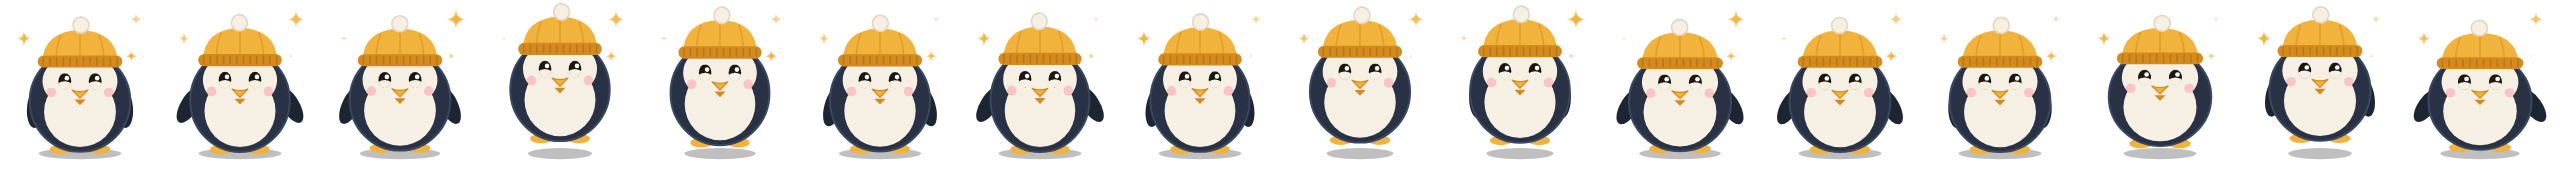
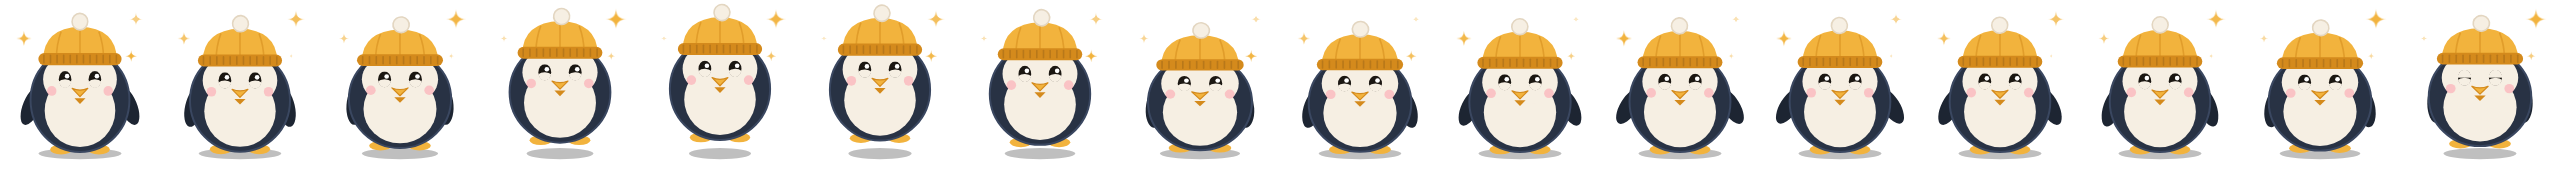
Kelvin: three moves per mood, switching every few seconds, on the desktop too
Idle, thinking, working and done each have three moves now: hops, a
waddle and flipper typing for working; a still ponder, a head sway and
little "hmm" bounces for thinking; a jump, a wiggle and a flipper cheer
for done; a breathe, a bob and a sway for idle. A Kelvin switches to a
different move every 6-9 seconds while a mood lasts, instead of keeping
one move until the mood changes.

Desktop Kelvin plays pre-rendered strips, so each move now has its own
strip (pet-<mood>-1.png, -2.png) recorded from kelvin.js. It picks a move
when the mood changes and switches every 7 seconds, at the end of a loop.
Moves cycle in 1.2 s so the 16-frame strips loop cleanly.

Claude-Session: https://claude.ai/code/session_013wJcUq1FY8kmipQYWNFhdJ

diff --git a/frontend2/js/kelvin.js b/frontend2/js/kelvin.js
@@ -150,7 +150,10 @@
     var q = function (s) { return Array.prototype.slice.call(svg.querySelectorAll(s)); };
     var inst = {
       host: host, svg: svg, state: opts.state || 'idle', poke: 0,
-      phase: Math.random() * 10, variant: 0,
+      phase: Math.random() * 10,
+      // Each mood has a few moves; a Kelvin switches move every few seconds.
+      // opts.variant pins one move (used to record Desktop Kelvin's strips).
+      variant: opts.variant || 0, pinned: opts.variant !== undefined, variantUntil: 0,
       blinkAt: performance.now() + 1500 + Math.random() * 2500,
       rig: svg.querySelector('[data-rig]'), shadow: svg.querySelector('[data-shadow]'), beak: svg.querySelector('[data-beak]'),
       eyes: q('[data-eye]').map(function (g) {
@@ -177,38 +180,58 @@
       setState: function (s) {
         if (!STATES[s] || s === inst.state) return;
         inst.state = s;
-        inst.variant = Math.floor(Math.random() * 3);   // a different move each time
+        if (!inst.pinned) { inst.variant = Math.floor(Math.random() * MOVES); inst.variantUntil = 0; }
       },
       destroy: function () { instances = instances.filter(function (i) { return i !== inst; }); host.innerHTML = ''; },
     };
   }
 
+  var MOVES = 3;                    // moves per mood (see step)
+  var W = 2 * Math.PI / 1.2;        // one cycle per 1.2 s, so Desktop Kelvin's 16-frame strips loop cleanly
+
   function step(inst, now, dt) {
     var st = inst.state, P = STATES[st], t = now / 1000 + inst.phase, sp = inst.sp, calm = isStill();
+    if (!inst.pinned && now > inst.variantUntil) {
+      // Time for a different move (never the same one twice in a row).
+      if (inst.variantUntil) inst.variant = (inst.variant + 1 + Math.floor(Math.random() * (MOVES - 1))) % MOVES;
+      inst.variantUntil = now + 6000 + Math.random() * 3000;
+    }
+    var mv = inst.variant;
     var poked = now - inst.poke < 700;
     var T = { hop: 0, stretch: 0, tilt: P.tilt, open: P.open, happy: P.happy, slant: P.slant, mOpen: P.mOpen, perk: P.perk, eyeScale: P.eyeScale, gx: 0, gy: 0 };
     if (!calm) {
       T.stretch = st === 'sleeping' ? Math.sin(t * 1.6) * 0.035 : Math.sin(t * 2.4) * 0.02;
       if (st === 'working') {
-        if (inst.variant === 1) {            // waddle side to side
-          T.tilt = Math.sin(t * 5) * 7; T.hop = -Math.abs(Math.sin(t * 5)) * 2;
-        } else if (inst.variant === 2) {     // typing with both flippers
-          T.perk = 0.3 + Math.sin(t * 16) * 0.6; T.hop = -Math.abs(Math.sin(t * 8)) * 1.5;
+        if (mv === 1) {                      // waddle side to side
+          T.tilt = Math.sin(t * W) * 7; T.hop = -Math.abs(Math.sin(t * W)) * 2.5;
+        } else if (mv === 2) {               // typing with both flippers
+          T.perk = 0.2 + Math.sin(t * W * 2) * 1.4; T.hop = -Math.abs(Math.sin(t * W * 2)) * 3; T.tilt = Math.sin(t * W * 2) * 2;
         } else {                             // busy little hops
-          T.hop = -Math.abs(Math.sin(t * 6)) * 3; T.stretch += Math.sin(t * 12) * 0.015;
+          T.hop = -Math.abs(Math.sin(t * W)) * 3.5; T.stretch += Math.sin(t * W * 2) * 0.015;
         }
       }
       if (st === 'done') {
-        if (inst.variant === 1) {            // happy wiggle
-          T.tilt = Math.sin(t * 9) * 9; T.perk = 0.6 + Math.sin(t * 9) * 0.5;
+        if (mv === 1) {                      // happy wiggle
+          T.tilt = Math.sin(t * W * 2) * 9; T.perk = 0.6 + Math.sin(t * W * 2) * 0.5;
+        } else if (mv === 2) {               // flipper cheer
+          T.perk = 0.8 + Math.sin(t * W * 2) * 1.6; T.hop = -Math.abs(Math.sin(t * W)) * 12; T.stretch += Math.sin(t * W * 2) * 0.04;
         } else {                             // jump for joy
-          var ph = (t * 1.25) % 1;
+          var ph = (t / 1.2) % 1;
           T.hop = ph < 0.45 ? -Math.sin(ph / 0.45 * Math.PI) * 16 : 0;
           T.stretch += (ph < 0.06 || (ph > 0.42 && ph < 0.5)) ? -0.08 : 0.02;
-          T.perk = 0.4 + Math.sin(t * 9) * 0.7;
+          T.perk = 0.4 + Math.sin(t * W) * 0.7;
         }
       }
-      if (st === 'thinking' && inst.variant === 1) T.tilt = P.tilt + Math.sin(t * 1.3) * 6;   // ponder, head swaying
+      if (st === 'thinking') {
+        if (mv === 1) T.tilt = P.tilt + Math.sin(t * W) * 6;                    // ponder, head swaying
+        else if (mv === 2) {                                                     // hmm… little bounces
+          T.hop = -Math.abs(Math.sin(t * W)) * 5; T.perk = 0.3 + Math.sin(t * W) * 0.8; T.tilt = P.tilt + 4;
+        }
+      }
+      if (st === 'idle') {
+        if (mv === 1) T.hop = -Math.abs(Math.sin(t * W)) * 3;                   // gentle bob
+        else if (mv === 2) T.tilt = Math.sin(t * W) * 5;                         // easy sway
+      }
       if (st === 'error') T.stretch -= 0.05;
       if (st === 'listening') T.tilt = P.tilt + Math.sin(t * 2) * 1.5;
     }

diff --git a/frontend2/index.html b/frontend2/index.html
@@ -1667,7 +1667,7 @@ Example:
   </div>
 </div>
 
-<script src="/js/kelvin.js?v=5"></script>
+<script src="/js/kelvin.js?v=6"></script>
 <script src="/js/complete.js?v=14"></script>
 <script src="/js/ai_list.js?v=1"></script>
 <script src="/js/packages.js?v=4"></script>

diff --git a/helm/desktop_kelvin.py b/helm/desktop_kelvin.py
@@ -44,6 +44,7 @@ SLEEP_AFTER_SECONDS = 10 * 60
 POKE_MS = 1200
 DRAG_THRESHOLD = 4
 PET_MOODS = ("idle", "working", "thinking", "approval", "done", "error", "sleeping")
+MOVE_SECONDS = 7                  # a different move for the same mood after this long
 
 SIZES = {"small": 0.5, "medium": 0.75, "large": 1.0}
 SIZE_ORDER = ("small", "medium", "large")
@@ -149,10 +150,31 @@ def pet_mood(status, now: Optional[float] = None) -> str:
     return mood
 
 
-def load_strip(mood: str, box: Optional[tuple] = None):
-    """Return the RGBA frames for one mood from its sprite strip, scaled to box."""
+def strip_path(mood: str, move: int = 0):
+    """pet-<mood>.png is the first move; pet-<mood>-1.png, -2.png… are the others."""
+    return ASSET_DIR / (f"pet-{mood}.png" if not move else f"pet-{mood}-{move}.png")
+
+
+def move_count(mood: str) -> int:
+    """How many moves (sprite strips) this mood has."""
+    n = 1
+    while strip_path(mood, n).exists():
+        n += 1
+    return n
+
+
+def next_move(current: int, count: int, rnd=None) -> int:
+    """A different move from the current one (the same one when there's only one)."""
+    import random
+    if count <= 1:
+        return 0
+    return (current + 1 + (rnd or random).randrange(count - 1)) % count
+
+
+def load_strip(mood: str, box: Optional[tuple] = None, move: int = 0):
+    """Return the RGBA frames for one mood (and move) from its sprite strip, scaled to box."""
     from PIL import Image
-    strip = Image.open(ASSET_DIR / f"pet-{mood}.png").convert("RGBA")
+    strip = Image.open(strip_path(mood, move)).convert("RGBA")
     count = max(1, strip.width // PET_W)
     frames = [strip.crop((i * PET_W, 0, (i + 1) * PET_W, PET_H)) for i in range(count)]
     if box and tuple(box) != (PET_W, PET_H):
@@ -203,6 +225,8 @@ class DesktopKelvin:
         self._frames: dict = {}
         self._mood = None
         self._frame = 0
+        self._move = 0
+        self._move_since = 0.0
         self._poke_until = 0.0
         self._press = None
         self._dragged_to = None
@@ -300,14 +324,15 @@ class DesktopKelvin:
 
     # -- animation -----------------------------------------------------------
 
-    def _frames_for(self, mood: str):
-        if mood not in self._frames:
+    def _frames_for(self, mood: str, move: int = 0):
+        key = (mood, move)
+        if key not in self._frames:
             from PIL import ImageTk
             bg = KEY_COLOR if self.transparent else FALLBACK_BG
             box = pet_box(self._size)
-            self._frames[mood] = [ImageTk.PhotoImage(flatten(f, bg), master=self.root)
-                                  for f in load_strip(mood, box)]
-        return self._frames[mood]
+            self._frames[key] = [ImageTk.PhotoImage(flatten(f, bg), master=self.root)
+                                 for f in load_strip(mood, box, move)]
+        return self._frames[key]
 
     def _apply_size(self, size: str) -> None:
         """Switch to a new size, keeping the bottom-right corner in place."""
@@ -348,9 +373,15 @@ class DesktopKelvin:
                     self.root.attributes("-topmost", True)
                 self._shown = want
             if want:
+                now = time.time()
                 if mood != self._mood:
+                    import random
                     self._mood, self._frame = mood, 0
-                frames = self._frames_for(mood)
+                    self._move, self._move_since = random.randrange(move_count(mood)), now
+                elif now - self._move_since > MOVE_SECONDS and self._frame % len(self._frames_for(mood, self._move)) == 0:
+                    # Same mood for a while: switch to another move at the end of a loop.
+                    self._move, self._move_since, self._frame = next_move(self._move, move_count(mood)), now, 0
+                frames = self._frames_for(mood, self._move)
                 self.label.configure(image=frames[self._frame % len(frames)])
                 self._frame += 1
         except Exception as exc:

diff --git a/tests/test_desktop_kelvin.py b/tests/test_desktop_kelvin.py
@@ -169,3 +169,58 @@ def test_kelvin_works_while_the_ai_runs_steps():
     st.observe({"type": "activity", "session_id": "a", "phase": "step", "label": "run command"})
     st.observe({"type": "thinking", "active": False, "session_id": "a"})
     assert dk.pet_mood(st) in ("idle", "done")
+
+
+def test_moods_have_several_moves():
+    """Idle, thinking, working and done each have three moves, every one a full strip."""
+    for mood in ("idle", "thinking", "working", "done"):
+        assert dk.move_count(mood) == 3, mood
+        for move in range(3):
+            frames = dk.load_strip(mood, move=move)
+            assert len(frames) >= 8 and frames[0].size == (dk.PET_W, dk.PET_H), (mood, move)
+    assert dk.move_count("approval") == 1
+
+
+def test_next_move_is_always_a_different_one():
+    import random
+    rnd = random.Random(1)
+    for cur in range(3):
+        for _ in range(20):
+            assert dk.next_move(cur, 3, rnd) != cur
+    assert dk.next_move(0, 1) == 0
+
+
+def test_desktop_kelvin_switches_moves_while_a_mood_lasts(monkeypatch):
+    """Drive the real animation loop with a stand-in window and a fake clock."""
+    clock = [1000.0]
+    monkeypatch.setattr(time, "time", lambda: clock[0])
+    monkeypatch.setattr(dk, "pet_size", lambda: "medium")
+    monkeypatch.setattr(dk, "pet_mode", lambda: "always")
+
+    class Root:
+        def after(self, ms, fn): pass
+        def attributes(self, *a): pass
+        def deiconify(self): pass
+        def withdraw(self): pass
+
+    shown = []
+    class Label:
+        def configure(self, image): shown.append(image)
+
+    st = KelvinStatus()
+    st.observe({"type": "thinking", "active": True, "session_id": "a"})
+    pet = dk.DesktopKelvin(st, open_ui=lambda: None)
+    pet.root, pet.label, pet._size = Root(), Label(), "medium"
+    pet._frames_for = lambda mood, move=0: [(mood, move, i) for i in range(16)]
+
+    moves = set()
+    for _ in range(600):                    # 600 frames of 75 ms = 45 s of thinking
+        pet._tick()
+        clock[0] += dk.FRAME_MS / 1000
+        moves.add(shown[-1][1])
+    assert {m for (mood, m, _) in shown if mood == "thinking"} == moves
+    assert len(moves) >= 2                  # it changed move at least once
+    # A move only changes at the start of a loop, never mid-animation.
+    for prev, cur in zip(shown, shown[1:]):
+        if cur[1] != prev[1]:
+            assert cur[2] == 0
